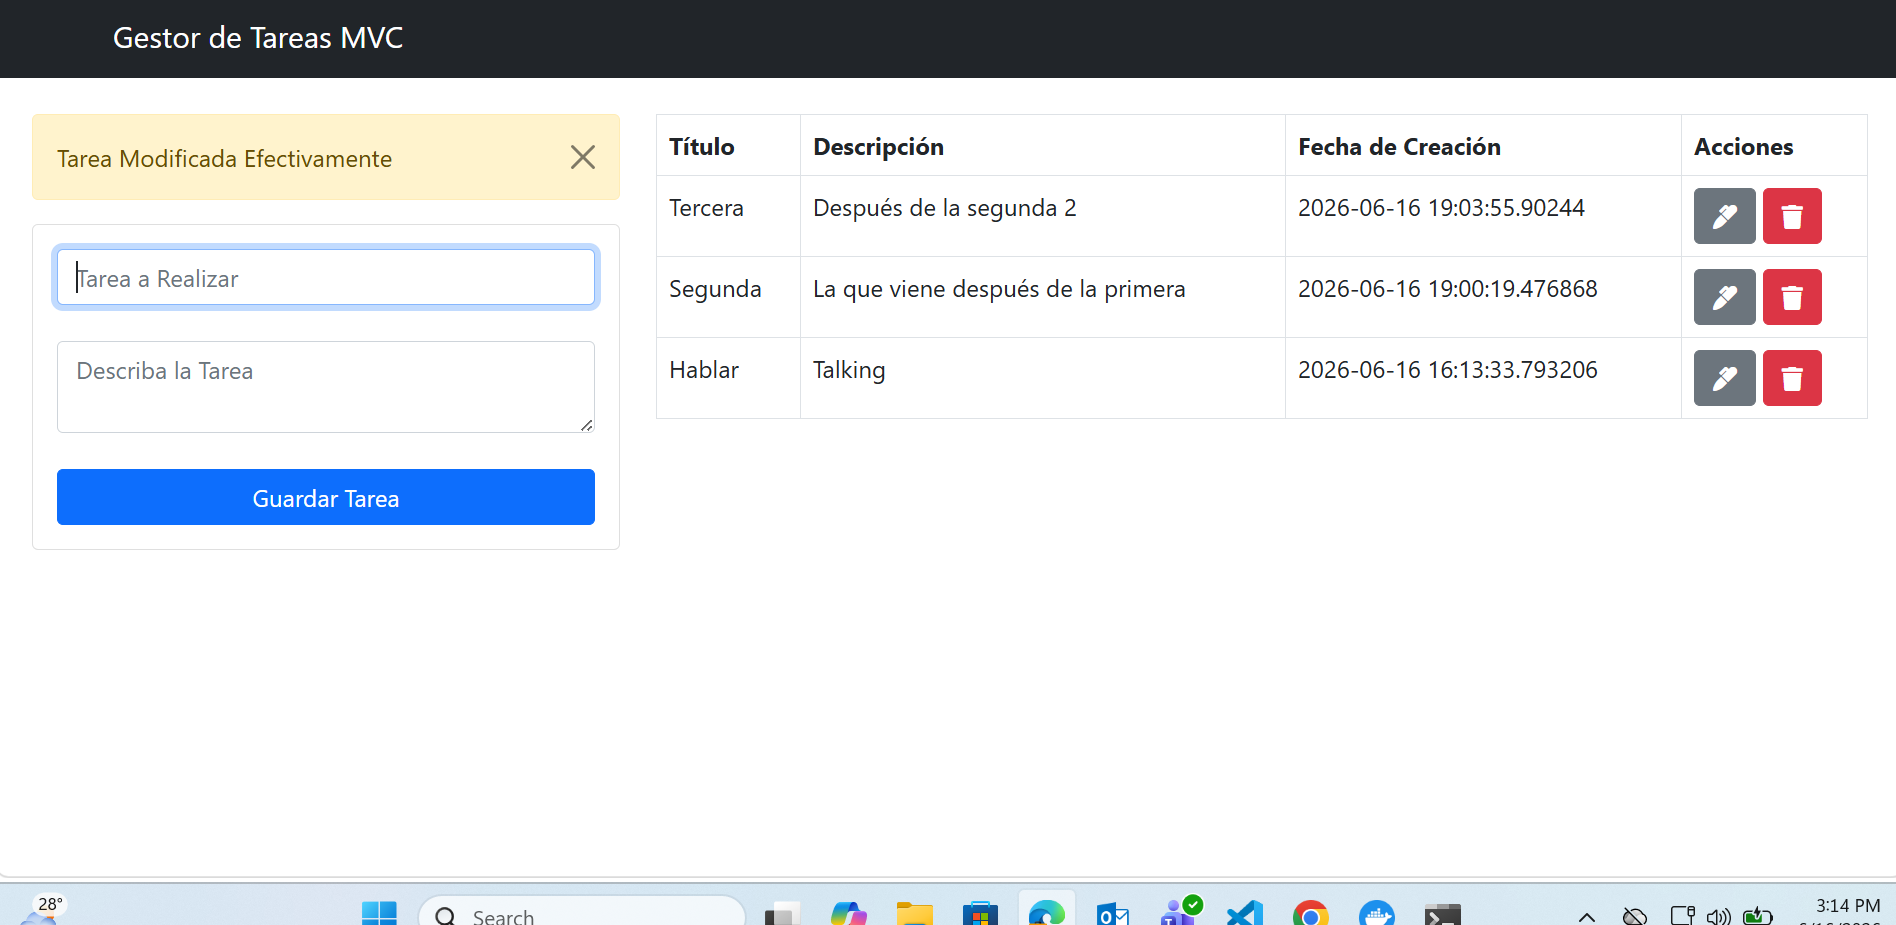
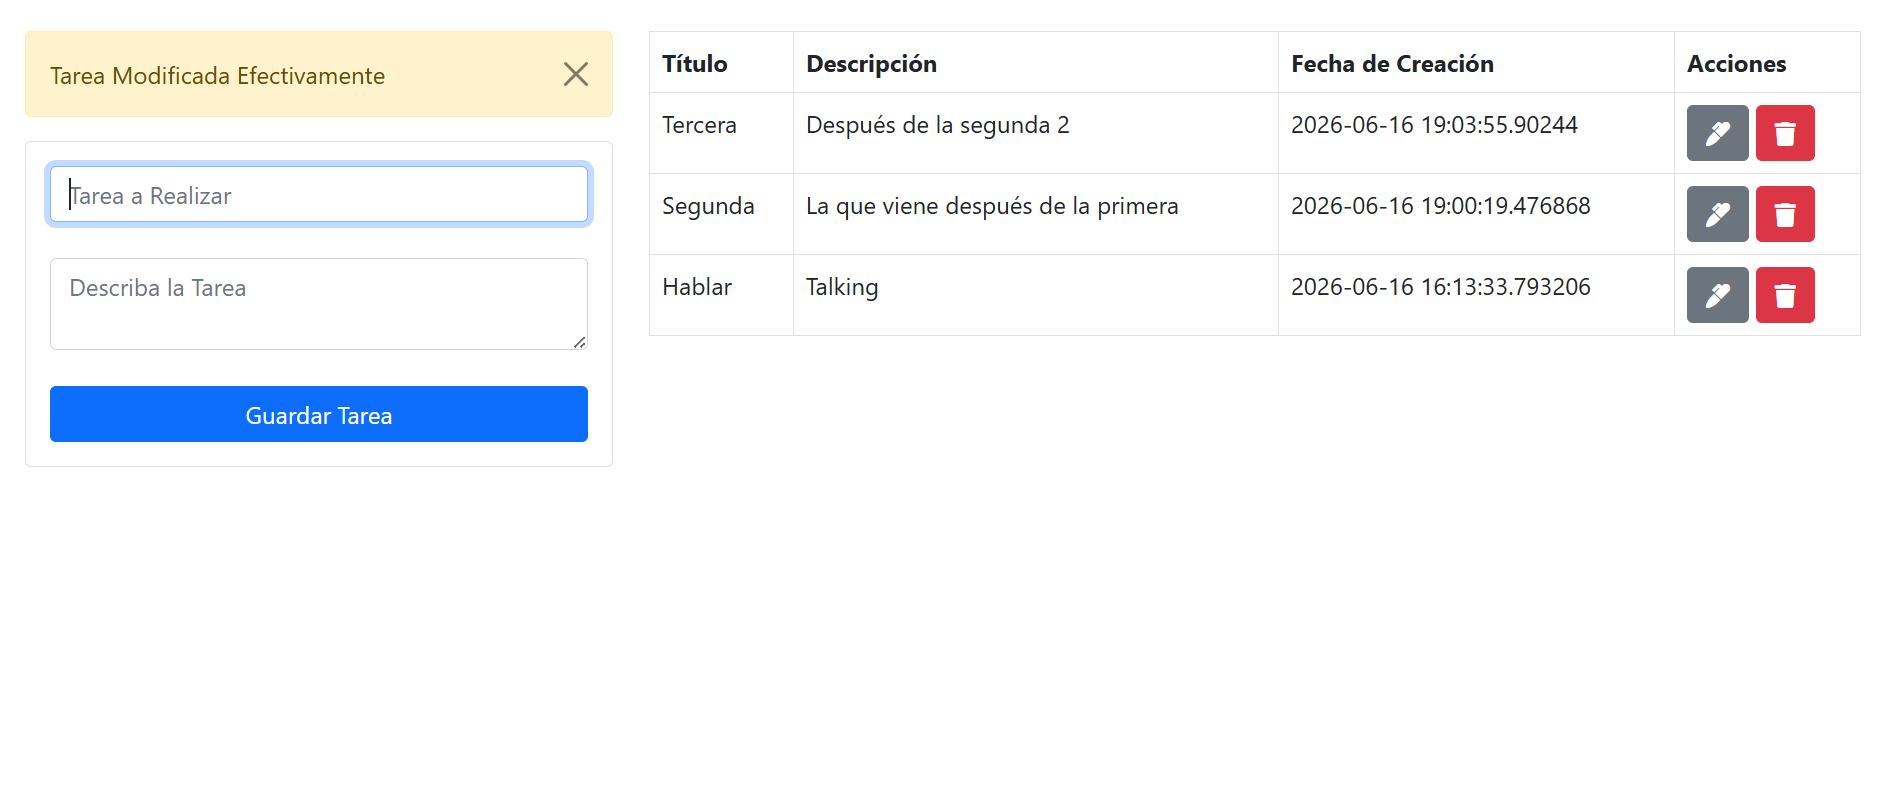
docs(readme): imagen

diff --git a/README.md b/README.md
@@ -1,5 +1,9 @@
 # Sistema de Gestion de Tareas PHP (Arquitectura MVC)
 
+<p align="center">
+  <img src="./main.png" alt="Imagen de la aplicacion" width="600">
+</p>
+
 Este proyecto es una aplicacion web para la administracion de tareas, refactorizada siguiendo el patron de arquitectura **Modelo-Vista-Controlador (MVC)** para garantizar un codigo limpio, seguro y facil de mantener.
 
 ## Descripcion General
@@ -8,11 +12,11 @@ La aplicacion separa la logica de negocio (Modelos), la interfaz de usuario (Vis
 
 ## Tecnologias Utilizadas
 
-*   **Arquitectura:** MVC (Modelo-Vista-Controlador)
-*   **Lenguaje:** PHP 8.1
-*   **Base de Datos:** PostgreSQL 15
-*   **Contenerizacion:** Docker & Docker Compose
-*   **Frontend:** Bootstrap 5 & FontAwesome
+- **Arquitectura:** MVC (Modelo-Vista-Controlador)
+- **Lenguaje:** PHP 8.1
+- **Base de Datos:** PostgreSQL 15
+- **Contenerizacion:** Docker & Docker Compose
+- **Frontend:** Bootstrap 5 & FontAwesome
 
 ## Estructura del Proyecto
 
@@ -60,6 +64,7 @@ La aplicacion estara disponible en `http://localhost:8055`.
 ## Desarrollo y Mantenimiento
 
 Gracias a la estructura MVC, para añadir nuevas funcionalidades:
+
 - Añada metodos de consulta en `src/Models/Task.php`.
 - Defina la logica de respuesta en `src/Controllers/TaskController.php`.
 - Cree o modifique las plantillas en `src/Views/`.